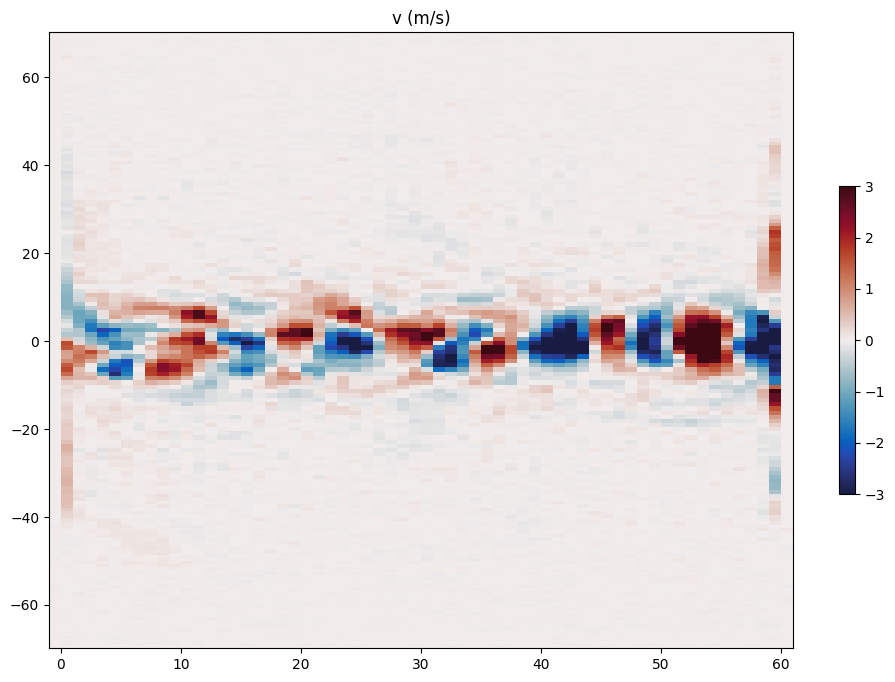
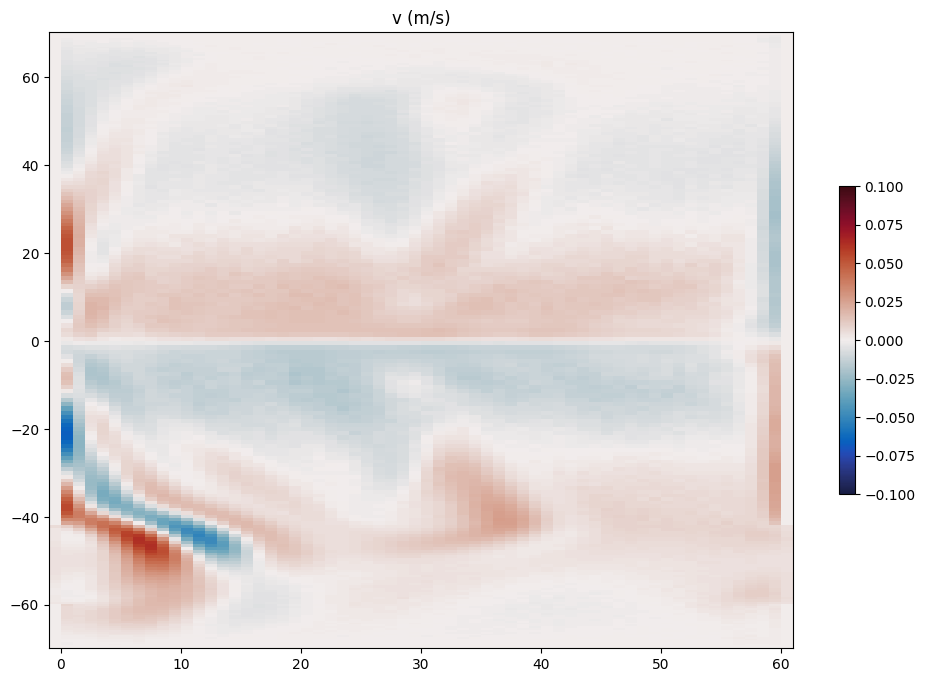
add weights and alpha value

diff --git a/DINO.GZ21/INFERENCES/ml_models.py b/DINO.GZ21/INFERENCES/ml_models.py
@@ -3,7 +3,6 @@ import sys
 import torch
 import pickle
 import sys
-sys.path.append('gz21_ocean_momentum/src/')
 
 from gz21_ocean_momentum.models.models1 import FullyCNN
 import gz21_ocean_momentum.models.transforms as transforms
@@ -37,24 +36,27 @@ def momentum_cnn(u, v, mask_u, mask_v):
     if Is_None([u, v]):
         return None
     else:
-        fake_weight = 0.0001
+        alpha = 0.0000001
         for z in range(u.shape[2]):
-            u_slice, v_slice = u[:,:,z], v[:,:,z]
+            normu, normv = np.std(u[:,:,z]), np.std(v[:,:,z])
+            normu = 1.0 if normu == 0.0 else normu
+            normv = 1.0 if normv == 0.0 else normv
+            u_slice, v_slice = u[:,:,z] / normu, v[:,:,z] / normv
             u_slice, v_slice = torch.tensor(u_slice.astype(np.float32)), torch.tensor(v_slice.astype(np.float32))
             inputs = torch.stack([u_slice, v_slice])[None]
             net = model_loading()
             r = net(inputs) # u, v -> s_x, s_y, std_x, std_y
             Su_mu, Sv_mu, Su_std, Sv_std = r[0, 0], r[0, 1], r[0, 2], r[0, 3]
-            u_c = fake_weight * ( u_slice + Su_mu + Su_std*torch.randn_like(Su_std) ).numpy()
-            v_c = fake_weight * ( v_slice + Sv_mu + Su_std*torch.randn_like(Sv_std) ).numpy()
-            u[:,:,z] = u_c
-            v[:,:,z] = v_c
+            u_c = ( Su_mu + Su_std*torch.randn_like(Su_std) ).numpy()
+            v_c = ( Sv_mu + Su_std*torch.randn_like(Sv_std) ).numpy()
+            u[:,:,z] = u_c * alpha
+            v[:,:,z] = v_c * alpha
         return u*mask_u , v*mask_v
     
 @torch.no_grad()
 def model_loading(weights_path='weights/gz21_huggingface/low-resolution/files/', device='cpu') : 
     net = FullyCNN(padding='same')
-    model_weights = torch.load(weights_path +'trained_model.pth', map_location=device)
+    model_weights = torch.load('trained_model.pth', map_location=device)
     #net.final_transformation = pickle.load(open(weights_path+'transformation', 'rb')) 
     transformation = transforms.SoftPlusTransform()
     transformation.indices = [2, 3] # Careful if model change
@@ -69,5 +71,6 @@ if __name__ == '__main__' :
     mask_u = np.ones((120, 100, 3)).astype('float32')
     mask_v = np.ones((120, 100, 3)).astype('float32')
     n_u, n_v = momentum_cnn(u, v, mask_u, mask_v)
+    print(f'fin: {n_u[0,0]}')
     print(f'Returned n_u : {n_u.shape} n_v : {n_v.shape}')
     print(f'Test successful')

diff --git a/DINO.GZ21/POST-PROCESS/plots_res.py b/DINO.GZ21/POST-PROCESS/plots_res.py
@@ -46,17 +46,17 @@ def main(filepath, var_name, infos):
 if __name__=="__main__":
 
     # usurf
-    infos = [ 'u (m/s)' , cmocean.cm.balance , colors.Normalize(vmin=-3.0, vmax=3.0), lambda x: x ]
+    infos = [ 'u (m/s)' , cmocean.cm.balance , colors.Normalize(vmin=-0.10, vmax=0.10), lambda x: x ]
     main( filepath='NEVERWORLD_gridUsurf.nc' , var_name='sozocrtx' , infos=infos )
 
     # vsurf
-    infos = [ 'v (m/s)' , cmocean.cm.balance , colors.Normalize(vmin=-3.0, vmax=3.0), lambda x: x ]
+    infos = [ 'v (m/s)' , cmocean.cm.balance , colors.Normalize(vmin=-0.10, vmax=0.10), lambda x: x ]
     main( filepath='NEVERWORLD_gridVsurf.nc' , var_name='somecrty' , infos=infos )
 
     # uf
-    infos = [ 'uf (m/s)' , cmocean.cm.balance , colors.Normalize(vmin=-0.001, vmax=0.001), lambda x: x ]
+    infos = [ 'uf (m/s)' , cmocean.cm.balance , colors.Normalize(vmin=-0.000001, vmax=0.000001), lambda x: x ]
     main( filepath='NEVERWORLD_gridUsurf.nc' , var_name='soext_uf' , infos=infos )
 
     # vf
-    infos = [ 'vf (m/s)' , cmocean.cm.balance , colors.Normalize(vmin=-0.001, vmax=0.001), lambda x: x ]
+    infos = [ 'vf (m/s)' , cmocean.cm.balance , colors.Normalize(vmin=-0.000001, vmax=0.000001), lambda x: x ]
     main( filepath='NEVERWORLD_gridVsurf.nc' , var_name='soext_vf' , infos=infos )
